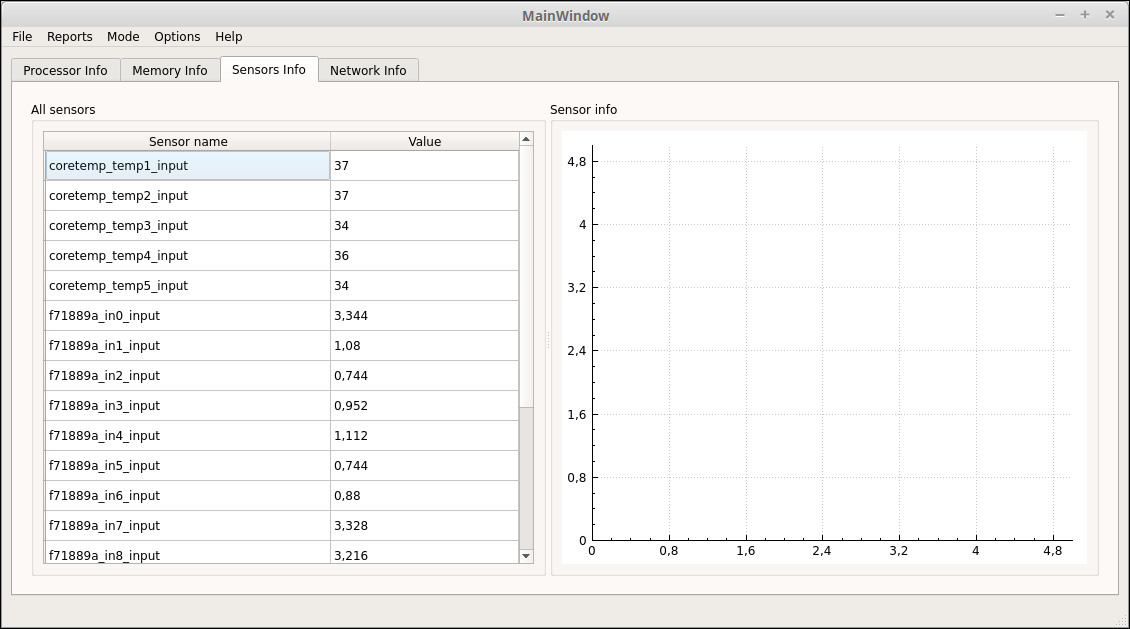
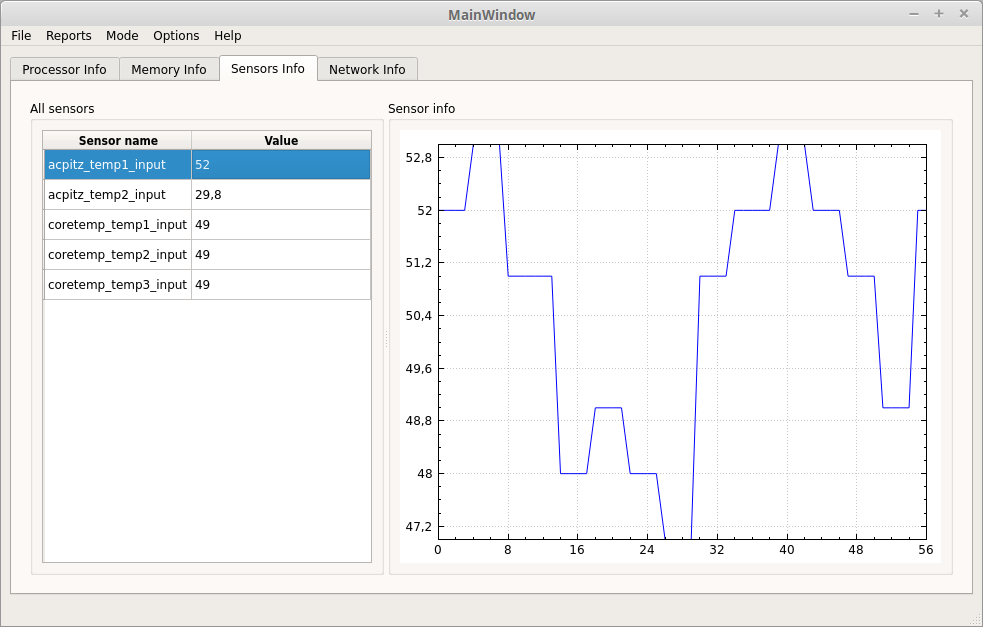
Dodano malowanie wykresów oraz poprawiono diagramy UML

diff --git a/doc/april_summarize/summation_april.tex b/doc/april_summarize/summation_april.tex
@@ -3,7 +3,7 @@
 \usepackage[utf8]{inputenc}
 \usepackage{polski}
 \usepackage[polish]{babel}
-\usepackage[margin=1.2in]{geometry}
+\usepackage[margin=1in]{geometry}
 \usepackage{lmodern}
 \usepackage{tabularx}
 \usepackage{graphicx}
@@ -102,11 +102,11 @@ Program \textit{CMake} to wieloplatformowy system do budowania aplikacji. Dzięk
 znajdowanie odpowiednich plików nagłówkowych oraz bibliotek oraz kompilacja na różnych platformach (m.in. Linux i Windows). Każdy folder zawiera w sobie plik \textit{CMakeLists.txt}, który definiuje w jaki sposób ma zachować się program budujący.Dzięki niemu, oszczędzono wiele czasu na kompilację oraz konsolidację programu używającego bibliotek \textit{Boost} oraz \textit{Qt5}. Najpierw budowane są biblioteki, a następnie cały program. Wszystko zostaje skonsolidowane. Istnieje również możliwość wygenerowania dokumentacji, wystarczy, że zbudujemy cel \textit{doc}.
 
 \subsection{Biblioteka \textit{SystemMonitoringLib}}
-Jest to biblioteka do monitorowania lokalnego komputera. Pozwala na pobieranie odczytów z czujników, informacji o procesorze takich jak częstotliwość taktowania poszczególnych rdzeni, zużycie procesora, o pamięci RAM (dostępna pamięć, zużycie) oraz informacje o poszczególnych procesach. 
+Jest to biblioteka do monitorowania lokalnego komputera. Pozwala na pobieranie odczytów z czujników, informacji o procesorze takich jak częstotliwość taktowania poszczególnych rdzeni, zużycie procesora, o pamięci RAM (dostępna pamięć, zużycie) oraz informacje o poszczególnych procesach. Na komputerze z uruchominionym systemem \textit{Linux}, biblioteka do zbierania informacji o komputerze używa innej biblioteki - \textit{sensorslib} oraz przetwarze pliki m.in. \textit{/proc/stat/}, \textit{/proc/cpuinfo}
 
 \subsection{Interfejs użytkownika}
 Roczpoczęto prace nad wizualizowaniem danych  odczytanych z czujników dostępnych na płycie głównej.
-W widoku tablki mamy możliwość podglądania aktualnych wartości odczytanych wielkości. Zrzut ekranu przedstawiającego aktualny stan interfejsu użytkownika został pokazany na rysunku \ref{wygladAplikacji}.
+W widoku tabelki mamy możliwość podglądania aktualnych wartości odczytanych wielkości. Zrzut ekranu przedstawiającego aktualny stan interfejsu użytkownika został pokazany na rysunku \ref{wygladAplikacji}.
 
 \begin{figure}[h]
 	\centering
@@ -117,10 +117,29 @@ W widoku tablki mamy możliwość podglądania aktualnych wartości odczytanych 
 
 
 \section{Następne zadania do wykonania - aktualizacja planu pracy}
+Ze względu na to, że niektóre zadania zostały wykonane ponad plan,a pewna część zadań z planu została nie zrealizowana należało zastosować poprawki w planie pracy nad aplikacją. Tabela \ref{planPracy} przedstawia zaktualizowany plan pracy.
 
+\begin{table}[h]
+			\centering
+			\begin{tabularx}{0.8\textwidth}{|c|c|c|X|}
+				\hline
+				Od & Do & Osiągnięty kamień milowy & Opis \\ \hline
+				23.03 & 29.03 &  & Zaprojektowanie interfejsu biblioteki do monitorowania komputera \\ \hline
+				20.04 & 26.04 &  & Zapoznanie się z metodami programowania sieciowego i dostępnymi bibliotekami oraz  rozpoczęcie implementacji biblioteki sieciowej\\ \hline
+				27.04 & 03.05 &  & Implementacja biblioteki sieciowej \\ \hline
+				04.05 & 10.05 & 2 & Zakończenie prac nad biblioteką sieciową oraz kontynuacja projektowania interfejsu użytkownika \\ \hline
+				11.05 & 17.05 &    & Dalsze projektowanie interfejsu użytkownika oraz jego implementacja \\ \hline
+				18.05 & 24.05 &  & Implementacja interfejsu użytkownika \\ \hline
+				25.03 & 31.03 & 3 & Implementacja interfejsu użytkownika oraz połączenie logiki programu z interfejsem \\ \hline
+				01.06 & 07.06 & 4 & Łączenie aplikacji graficznej z bibliotekami oraz początek testów aplikacji \\ \hline
+				07.06 & 13.06 &  & Ostateczne testy aplikacji \\ \hline
+			\end{tabularx}
+			\caption{Tabela przedstawiająca kamienie milowe}
+			\label{tabela_harmonogram}
+		\end{table}
 
 \section{Podsumowanie}
-Ze względu na dużą liczbę innych projektów, prace nad aplikacją są lekko opóźnione, jednak zostaną poczynione wszelkie starania aby do następnego terminu oddania prac wszystko zostało nadrobione. 
-Pozytywną informacją jest fakt, że zostały już rozpoczęte prace nad iterfejsem użytkownika.
+Ze względu na dużą liczbę innych projektów, prace nad aplikacją są lekko opóźnione - około tygodnia, jednak zostaną poczynione wszelkie starania aby do następnego terminu oddania prac wszystko zostało nadrobione. 
+Pozytywną informacją jest fakt, że zostały już rozpoczęte prace nad interfejsem użytkownika, czego początkowy plan pracy nie uwzględniał.
 
 \end{document}

diff --git a/prj/src/gui/SensorsWidget.cpp b/prj/src/gui/SensorsWidget.cpp
@@ -14,57 +14,59 @@ void SensorsWidget::computerInfoData(ComputerInfoDataContainerWrapper* compInfo)
   tableView->setModel(model);
   tableView->resizeColumnsToContents();
   QItemSelectionModel *selectionModel = tableView->selectionModel();
+  m_compInfo = compInfo;
 
   connect(selectionModel,
       SIGNAL(selectionChanged (const QItemSelection &, const QItemSelection &)),
       this,
       SLOT(
           onSelectionRowChanged(const QItemSelection &, const QItemSelection &)));
-  connect(compInfo,SIGNAL(dataUpdated()),tableView,SLOT(repaint()));
+  connect(compInfo, SIGNAL(dataUpdated()), tableView, SLOT(repaint()));
+  connect(compInfo, SIGNAL(dataUpdated()), this, SLOT(updatePlot()));
 }
 
-void SensorsWidget::onSelectionRowChanged(const QItemSelection &,
+void SensorsWidget::onSelectionRowChanged(const QItemSelection & selected,
     const QItemSelection &)
 {
-  static int mult=0;
+  static int mult = 0;
   auto customPlot = customPlotWidget();
+  customPlot->clearGraphs();
   customPlot->addGraph();
   customPlot->graph(0)->setPen(QPen(Qt::blue)); // line color blue for first graph
-  customPlot->graph(0)->setBrush(QBrush(QColor(0, 0, 255, 20))); // first graph will be filled with translucent blue
   customPlot->addGraph();
-  //customPlot->graph(1)->setPen(QPen(Qt::red)); // line color red for second graph
-  // generate some points of data (y0 for first, y1 for second graph):
-  QVector<double> x(250), y0(250), y1(250);
-  for (int i = 0; i < 250; ++i)
-  {
-    x[i] = i;
-    y0[i] = qExp(-i / 150.0) * qCos(i*mult / 10.0); // exponentially decaying cosine
-    y1[i] = qExp(-i / 150.0);              // exponential envelope
-  }
-  // configure right and top axis to show ticks but no labels:
-  // (see QCPAxisRect::setupFullAxesBox for a quicker method to do this)
+
+  m_currentRow = selected.indexes()[0].row();
+  QVector<double> y0 = QVector<double>::fromStdVector(
+      m_compInfo->dataContainer()->sensorsData(m_currentRow)), x;
+  for (int i = 0; i < y0.size(); i++)
+    x.push_back(i);
   customPlot->xAxis2->setVisible(true);
   customPlot->xAxis2->setTickLabels(false);
   customPlot->yAxis2->setVisible(true);
   customPlot->yAxis2->setTickLabels(false);
-  // make left and bottom axes always transfer their ranges to right and top axes:
   connect(customPlot->xAxis, SIGNAL(rangeChanged(QCPRange)), customPlot->xAxis2,
       SLOT(setRange(QCPRange)));
   connect(customPlot->yAxis, SIGNAL(rangeChanged(QCPRange)), customPlot->yAxis2,
       SLOT(setRange(QCPRange)));
-  // pass data points to graphs:
   customPlot->graph(0)->setData(x, y0);
-  //customPlot->graph(1)->setData(x, y1);
-  // let the ranges scale themselves so graph 0 fits perfectly in the visible area:
   customPlot->graph(0)->rescaleAxes();
-  // same thing for graph 1, but only enlarge ranges (in case graph 1 is smaller than graph 0):
-  //customPlot->graph(1)->rescaleAxes(true);
-  // Note: we could have also just called customPlot->rescaleAxes(); instead
-  // Allow user to drag axis ranges with mouse, zoom with mouse wheel and select graphs by clicking:
   customPlot->setInteractions(
       QCP::iRangeDrag | QCP::iRangeZoom | QCP::iSelectPlottables);
   customPlot->replot();
   mult++;
+}
+
+void SensorsWidget::updatePlot()
+{
+  if (customPlot->graphCount() == 0 || m_currentRow == -1)
+    return;
+  std::cout << m_currentRow << std::endl;
+  customPlot->graph(0)->addData(
+      m_compInfo->dataContainer()->sensorsData(m_currentRow).size(),
+      m_compInfo->dataContainer()->sensorsData(m_currentRow).back());
+  customPlot->replot();
+
+  customPlot->graph(0)->rescaleAxes();
 }
 
 void SensorsWidget::init()

diff --git a/prj/lib/SystemMonitoringLib/src/ComputerInfoDataContainer.cpp b/prj/lib/SystemMonitoringLib/src/ComputerInfoDataContainer.cpp
@@ -7,9 +7,44 @@
 
 #include "ComputerInfoDataContainer.hpp"
 
-
 bool ComputerInfoDataContainer::update()
 {
   m_computerInfo->update();
+  m_time.push_back(m_computerInfo->lastUpdated());
+  if (m_sensorsValues.empty())
+    init();
+
+  int i = 0;
+  for (auto& sensor : m_sensorsValues)
+  {
+    sensor.second.push_back(computerInfo().allSensors()[i].value());
+    i++;
+  }
+
   return Info::update();
+}
+
+void ComputerInfoDataContainer::init()
+{
+  const SensorsVector& allSensors = computerInfo().allSensors();
+  if (m_sensorsValues.size() != allSensors.size())
+  {
+    m_sensorsValues.clear();
+    for (unsigned i = 0; i < allSensors.size(); i++)
+      m_sensorsValues.insert(std::make_pair(i, std::vector<double>()));
+  }
+}
+
+const std::vector<double>& ComputerInfoDataContainer::sensorsData(
+    int sensorNum) const
+{
+  if (sensorNum >= m_sensorsValues.size())
+    throw "There's no sensor with that index";
+
+  auto it = m_sensorsValues.find(sensorNum);
+
+  if (it == m_sensorsValues.end())
+    throw "There's no sensor with that index";
+
+  return it->second;
 }

diff --git a/prj/lib/SystemMonitoringLib/inc/ComputerInfoDataContainer.hpp b/prj/lib/SystemMonitoringLib/inc/ComputerInfoDataContainer.hpp
@@ -9,6 +9,7 @@
 #define COMPUTERINFODATACONTAINER_HPP_
 
 #include <map>
+#include <chrono>
 #include "ComputerInfo.hpp"
 
 class ComputerInfoDataContainer: public Info
@@ -16,13 +17,16 @@ class ComputerInfoDataContainer: public Info
   public:
     ComputerInfoDataContainer(ComputerInfo* computerInfo = nullptr):m_computerInfo(computerInfo) { }
 //    const std::vector<double>& frequencyData(int coreNum = 0) const;
-//    const std::vector<double>& sensorsData(int sensorNum=0) const;
-    // time() const;
+    const std::vector<double>& sensorsData(int sensorNum=0) const;
+    const std::vector<std::chrono::system_clock::time_point>& time() const { return m_time; }
     bool update() override;
     const ComputerInfo& computerInfo() const { return *m_computerInfo; }
   private:
+    void init();
+
     std::map<unsigned, std::vector<double>> m_frequency;
     std::map<unsigned, std::vector<double>> m_sensorsValues;
+    std::vector<std::chrono::system_clock::time_point> m_time;
     ComputerInfo* m_computerInfo;
 };
 

diff --git a/prj/inc/gui/SensorsWidget.hpp b/prj/inc/gui/SensorsWidget.hpp
@@ -18,17 +18,19 @@ class SensorsWidget: public QWidget, Ui::UiSensorsWidget
 
   public:
     SensorsWidget(QWidget* parent = nullptr)
-    : QWidget(parent) { init(); }
+    : QWidget(parent),m_currentRow(-1) { init(); }
     void computerInfoData(ComputerInfoDataContainerWrapper* computerInfoData);
 
 
   private slots:
   void onSelectionRowChanged(const QItemSelection &, const QItemSelection &);
+  void updatePlot();
 
   private:
     void init();
     QCustomPlot* customPlotWidget() { return customPlot; }
-
+    const ComputerInfoDataContainerWrapper* m_compInfo;
+    int m_currentRow;
 };
 
 #endif /* SENSORSWIDGET_HPP_ */

diff --git a/prj/lib/SystemMonitoringLib/inc/ComputerInfo.hpp b/prj/lib/SystemMonitoringLib/inc/ComputerInfo.hpp
@@ -10,6 +10,8 @@
 
 #include "Info.hpp"
 #include "SensorsVector.hpp"
+#include "RamInfo.hpp"
+#include "ProcessorInfo.hpp"
 
 class ComputerInfo: public Info
 {
@@ -17,6 +19,7 @@ class ComputerInfo: public Info
     ComputerInfo(): m_sensors(SensorInfo::allSensors()) { }
     bool update() override;
     const SensorsVector& allSensors() const { return m_sensors; }
+
   private:
     SensorsVector m_sensors;
 };

diff --git a/prj/lib/SystemMonitoringLib/inc/RamInfo.hpp b/prj/lib/SystemMonitoringLib/inc/RamInfo.hpp
@@ -1,0 +1,18 @@
+/*
+ * RamInfo.hpp
+ *
+ *  Created on: Apr 22, 2015
+ *      Author: mochman
+ */
+
+#ifndef RAMINFO_HPP_
+#define RAMINFO_HPP_
+
+#include "Info.hpp"
+
+class RamInfo: public Info
+{
+
+};
+
+#endif /* RAMINFO_HPP_ */

diff --git a/prj/inc/data/ComputerInfoDataContainerWrapper.hpp b/prj/inc/data/ComputerInfoDataContainerWrapper.hpp
@@ -11,7 +11,7 @@
 #include <QObject>
 #include "ComputerInfoDataContainer.hpp"
 
-class ComputerInfoDataContainerWrapper: public QObject
+class ComputerInfoDataContainerWrapper: public QObject, public Info
 {
     Q_OBJECT
 
